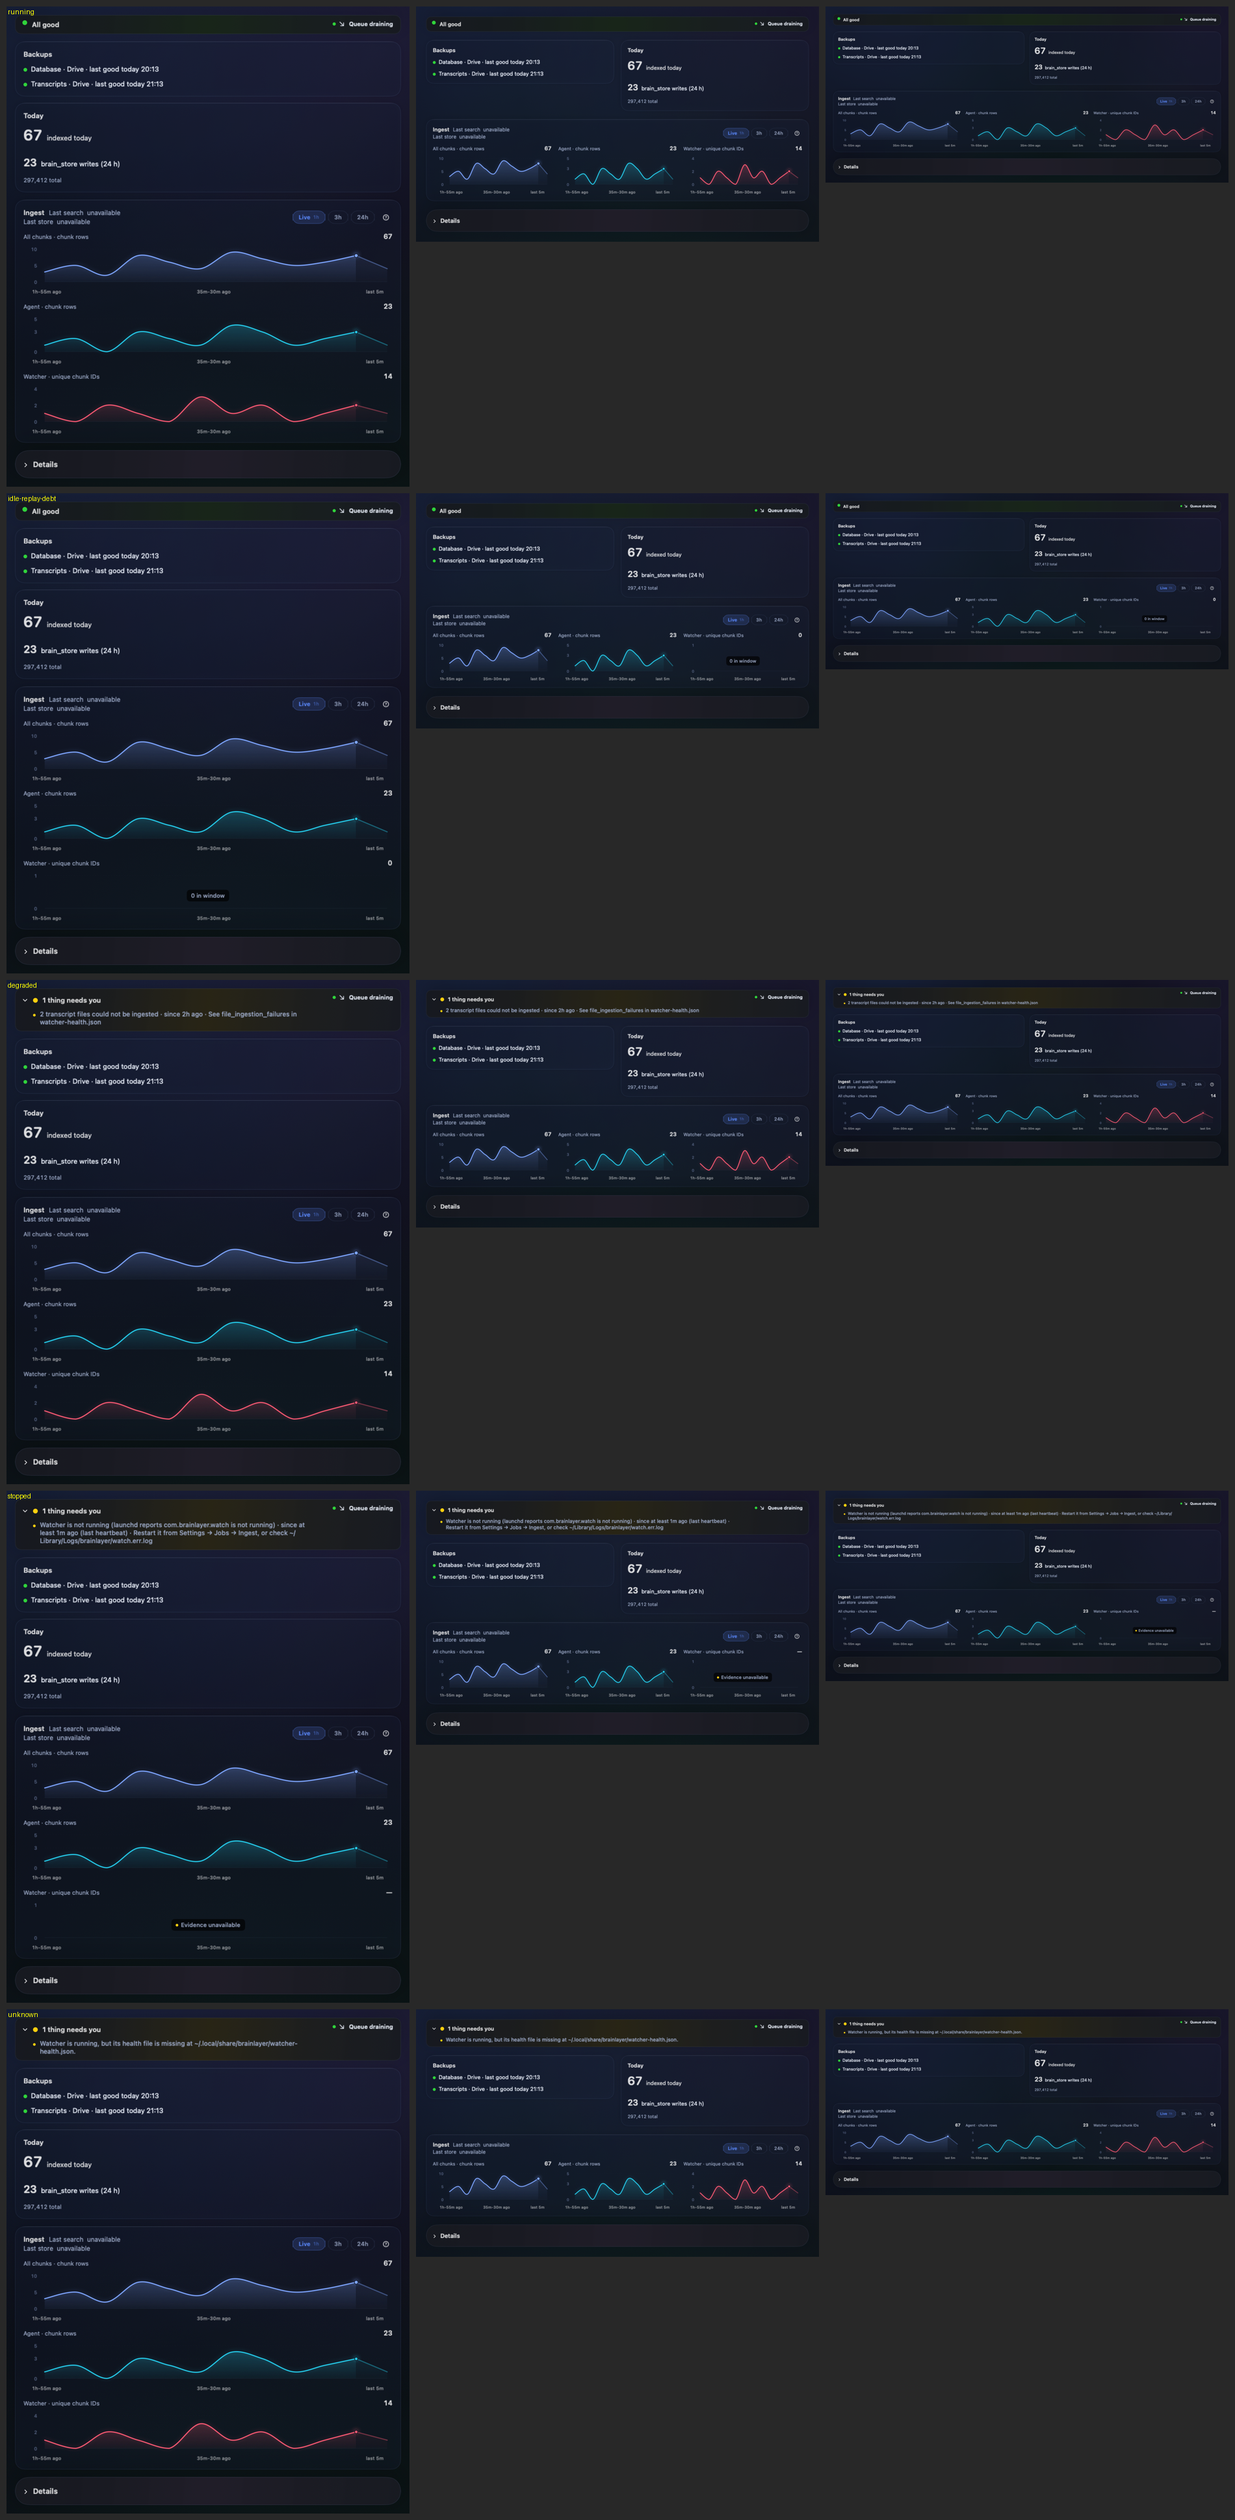
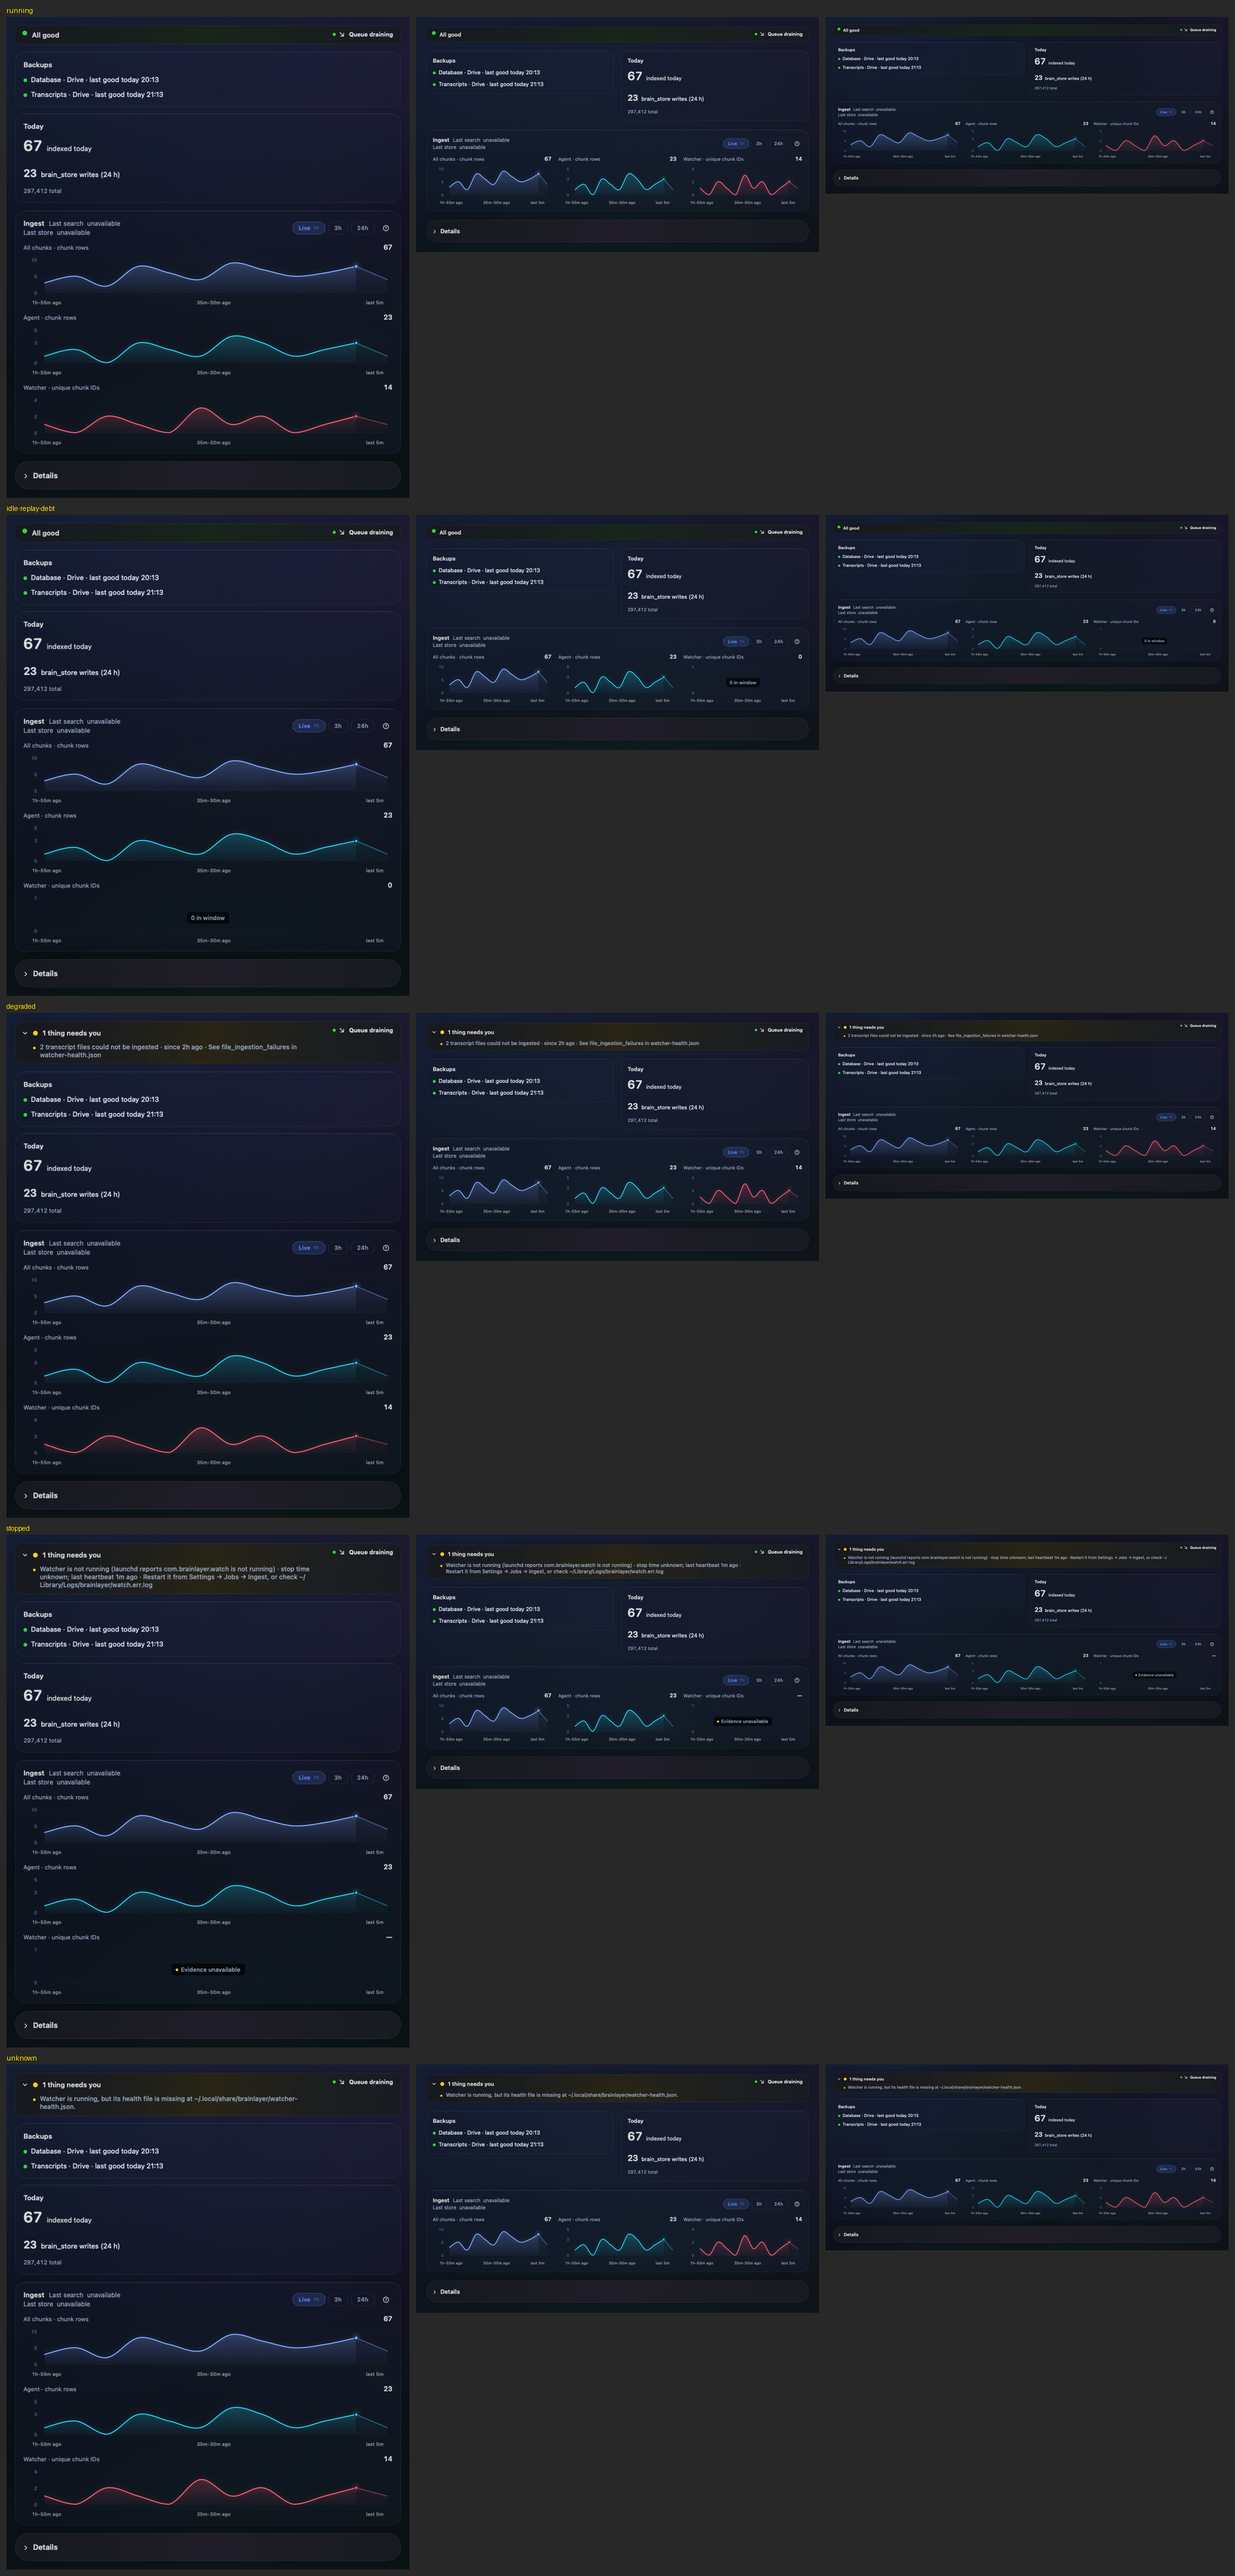
docs(brainbar): re-render the stopped watcher state after #1013 round-2 B1
The stopped line now reads "stop time unknown; last heartbeat 1m ago" on the Dashboard and
Settings at 760/960/1280. The other 8 state/surface renders are byte-identical to the
committed ones.

diff --git a/brain-bar/docs/ui-renders/2026-09-30-watcher-truth/README.md b/brain-bar/docs/ui-renders/2026-09-30-watcher-truth/README.md
@@ -18,7 +18,7 @@ Before writing, the harness asserts that the Dashboard's `WatcherHealthStatus` t
 | Running | launchd running, heartbeat 70 s old | [PNG](running-dashboard-960.png): All good | [PNG](running-settings-960.png): Ingest Healthy, footer "Watcher running" |
 | Idle with replay debt (the #966 repro) | running, fresh heartbeat, 0 watcher chunks, BrainBar replay debt > 0 | [PNG](idle-replay-debt-dashboard-960.png): **All good**. It used to say "Watcher flow needs attention." | [PNG](idle-replay-debt-settings-960.png): Watcher running |
 | Degraded | running, `file_ingestion_failure` ×2 since 2 h | [PNG](degraded-dashboard-960.png): "2 transcript files could not be ingested · since 2h ago · See file_ingestion_failures in watcher-health.json" | [PNG](degraded-settings-960.png): the same line on the Ingest card and in the footer |
-| Stopped | launchd: not loaded / not running | [PNG](stopped-dashboard-960.png): "Watcher is not running (…). Restart it from Settings → Jobs → Ingest, or check ~/Library/Logs/brainlayer/watch.err.log." | [PNG](stopped-settings-960.png): Ingest Needs attention, footer "Watcher stopped" |
+| Stopped | launchd: not loaded / not running | [PNG](stopped-dashboard-960.png): "Watcher is not running (…) · stop time unknown; last heartbeat 1m ago · Restart it from Settings → Jobs → Ingest, or check ~/Library/Logs/brainlayer/watch.err.log". launchd records no stop time, so the heartbeat is given as a fact, not as a duration. | [PNG](stopped-settings-960.png): Ingest Needs attention, footer "Watcher stopped" |
 | Unknown | running, health file missing | [PNG](unknown-dashboard-960.png): "Watcher is running, but its health file is missing at …/watcher-health.json." | [PNG](unknown-settings-960.png): Ingest **Status unknown** (not "Needs attention"), footer "Watcher status unknown" |
 
 - Contact sheets covering all three widths: [dashboard](contact-sheet-dashboard-760-960-1280.png), [settings](contact-sheet-settings-760-960-1280.png).
